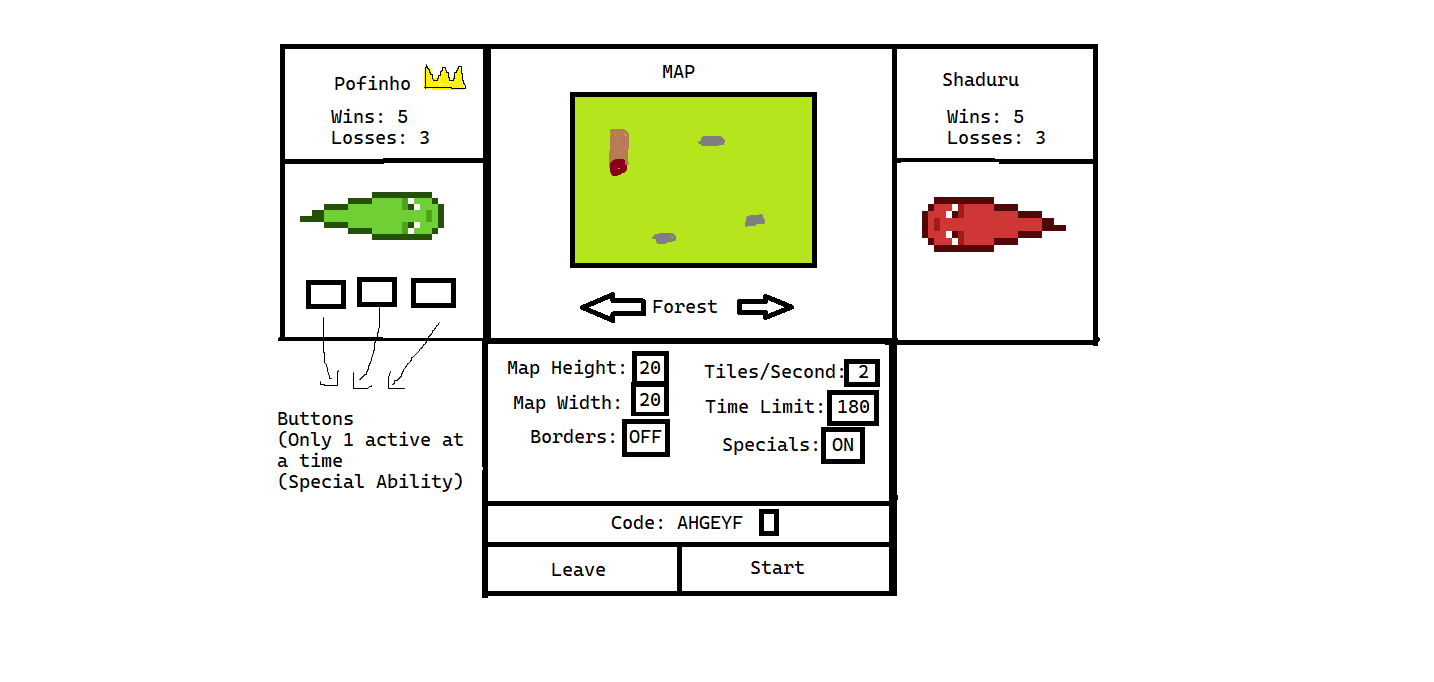
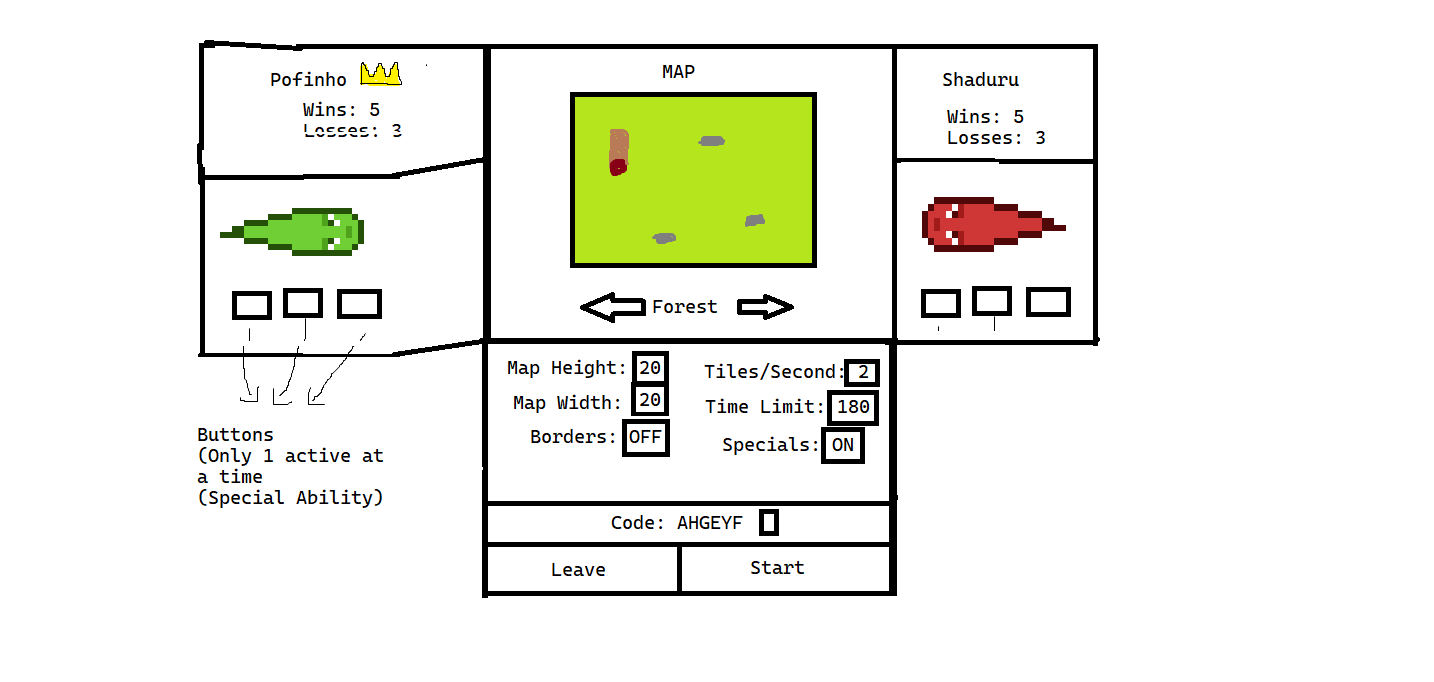
CPL Updated

Changed region(s): [[0.1227, 0.0616, 0.3375, 0.5235], [0.1227, 0.585, 0.3068, 0.739], [0.6444, 0.4003, 0.7671, 0.4927]]

diff --git a/Frontend/retro-game/src/pages/CreatePrivateLobby.jsx b/Frontend/retro-game/src/pages/CreatePrivateLobby.jsx
@@ -36,11 +36,11 @@ export default function CreatePrivateLobby() {
   };
 
   return (
-    <div className="cpl-container border-gradient-normal">
+    <div className="cpl-container">
       <div className="cpl-top-grid border-gradient-normal">
         <div className="cpl-player-info cpl-player-info-left border-gradient-normal">
           <div>
-            <h3 className="title gradient-text">Pofinho</h3>
+            <p className="title gradient-text">Pofinho</p>
           </div>
           <div>
             <p className="text-color-green">Ws: 5</p>
@@ -74,15 +74,15 @@ export default function CreatePrivateLobby() {
             alt="Map Image"
           />
           <div className="cpl-map-navigation-container">
-            <button>&lt;</button>
+            <button className="button-default button-square">&lt;</button>
             <p className="cpl-map-name gradient-text">Forest</p>
-            <button>&gt;</button>
+            <button className="button-default button-square">&gt;</button>
           </div>
         </div>
 
         <div className="cpl-player-info cpl-player-info-right border-gradient-normal">
           <div>
-            <h3 className="title gradient-text">Shaduru</h3>
+            <p className="title gradient-text">Shaduru</p>
           </div>
           <div>
             <p className="text-color-green">Ws: 0</p>
@@ -109,55 +109,61 @@ export default function CreatePrivateLobby() {
           </div>
         </div>
       </div>
-      <div className="map-settings border-gradient-normal">
-        <label>
-          Map Height:
+      <div className="cpl-map-settings border-gradient-normal">
+        <label className="cpl-label">
+          Map Height
           <input
+            className="cpl-input"
             type="number"
             name="height"
             value={mapSettings.height}
             onChange={handleMapSettingChange}
           />
         </label>
-        <label>
-          Map Width:
+        <label className="cpl-label">
+          Time Limit
           <input
-            type="number"
-            name="width"
-            value={mapSettings.width}
-            onChange={handleMapSettingChange}
-          />
-        </label>
-        <label>
-          Tiles/Second:
-          <input
-            type="number"
-            name="speed"
-            value={mapSettings.speed}
-            onChange={handleMapSettingChange}
-          />
-        </label>
-        <label>
-          Time Limit:
-          <input
+            className="cpl-input"
             type="number"
             name="timeLimit"
             value={mapSettings.timeLimit}
             onChange={handleMapSettingChange}
           />
         </label>
-        <label>
-          Borders:
+        <label className="cpl-label">
+          Borders
           <input
+            className="cpl-checkbox"
             type="checkbox"
             name="borders"
             checked={mapSettings.borders}
             onChange={handleMapSettingChange}
           />
         </label>
-        <label>
-          Specials:
+        <label className="cpl-label">
+          Map Width
           <input
+            className="cpl-input"
+            type="number"
+            name="width"
+            value={mapSettings.width}
+            onChange={handleMapSettingChange}
+          />
+        </label>
+        <label className="cpl-label">
+          Speed
+          <input
+            className="cpl-input"
+            type="number"
+            name="speed"
+            value={mapSettings.speed}
+            onChange={handleMapSettingChange}
+          />
+        </label>
+        <label className="cpl-label">
+          Abilities
+          <input
+            className="cpl-checkbox"
             type="checkbox"
             name="specials"
             checked={mapSettings.specials}
@@ -165,10 +171,7 @@ export default function CreatePrivateLobby() {
           />
         </label>
       </div>
-      <div className="game-code container-center border-gradient-normal">
-        Code: AHGEYF
-      </div>
-      <div className="buttons-login-container container-center border-gradient-normal">
+      <div className="buttons-login-container container-center">
         <button
           className="button-default button-height-less"
           onClick={handleSubmit}

diff --git a/Frontend/retro-game/src/style.css b/Frontend/retro-game/src/style.css
@@ -205,6 +205,17 @@ input:focus {
   height: 3rem;
 }
 
+.button-square {
+  height: 3rem;
+  width: 3rem;
+  margin: 1rem;
+  padding: 0rem;
+  display: flex;
+  justify-content: center;
+  align-content: center;
+  align-items: center;
+}
+
 /* Gradients */
 
 .gradient-text {
@@ -261,7 +272,6 @@ input:focus {
 .cpl-container {
   display: flex;
   flex-direction: column;
-  justify-content: center;
   gap: 20px;
   height: 100vh;
   padding: 20px;
@@ -273,7 +283,6 @@ input:focus {
   display: grid;
   grid-template-columns: 1fr 2fr 1fr;
   grid-template-rows: 2;
-  gap: 20px;
   padding: 20px;
   box-sizing: border-box;
 }
@@ -314,7 +323,6 @@ input:focus {
   width: 40px;
   height: 40px;
   border: 2px solid transparent;
-  border-radius: 5px;
   cursor: pointer;
   margin: 1rem;
 
@@ -339,11 +347,6 @@ input:focus {
   height: 100%;
 }
 
-.map-settings {
-  display: grid;
-  grid-template-columns: repeat(auto-fit, minmax(200px, 1fr));
-}
-
 .cpl-map-navigation-container {
   display: flex;
   justify-content: space-around;
@@ -357,61 +360,49 @@ input:focus {
   font-size: var(--fs-600);
 }
 
-.game-actions {
-  display: flex;
-  flex-direction: column;
-  align-items: center;
-  justify-content: center;
-  padding: 20px;
-  border-radius: 8px;
+.cpl-map-settings {
+  display: grid;
+  grid-template-columns: repeat(3, 1fr);
+  grid-template-rows: repeat(2, auto);
+  gap: 1rem;
+  padding-top: 1rem;
+  padding-bottom: 1rem;
+  padding-left: 2rem;
+  padding-right: 2rem;
 }
 
-.map-settings {
-  /* grid-column: 1 / 2;
-  grid-row: 2 / 3; */
-}
+.cpl-checkbox {
+  appearance: none;
+  -webkit-appearance: none;
+  -moz-appearance: none;
 
-.game-actions {
-  /* grid-column: 2 / 4;
-  grid-row: 3 / 4;
-  justify-content: space-between;
-  padding: 10px 20px; */
-}
-
-.map-settings label {
-}
-
-.map-settings input[type="number"] {
-  width: 60px;
-  margin-left: 10px;
-  padding: 5px;
-  border-radius: 5px;
-  text-align: center;
-}
-
-.map-settings input[type="checkbox"] {
-  margin-left: 10px;
-}
-
-.game-code {
-  margin-top: 20px;
-  font-size: 1.2rem;
-  font-weight: bold;
-}
-
-.game-actions button {
-  padding: 10px 20px;
-  border-radius: 5px;
-  border: none;
+  width: 40px;
+  height: 40px;
   cursor: pointer;
-  font-size: 1rem;
+
+  background-color: var(--color-background);
+  border: 2px solid var(--color-border-gradient-1);
 }
 
-.game-actions button:hover {
+.cpl-checkbox:checked {
+  border-color: var(--color-border-input);
+  box-shadow: 0 0 0 3px var(--color-border-input-shadow);
 }
 
-.game-actions button:first-child {
+.cpl-checkbox:hover {
+  border-color: var(--color-border-input);
 }
 
-.game-actions button:first-child:hover {
+.cpl-label {
+  font-size: var(--fs-300);
+  color: var(--color-border-gradient-2);
+  display: flex;
+  flex-direction: row;
+  justify-content: flex-end;
+  align-items: center;
+  gap: 2rem;
+}
+
+.cpl-input {
+  width: 200px;
 }
